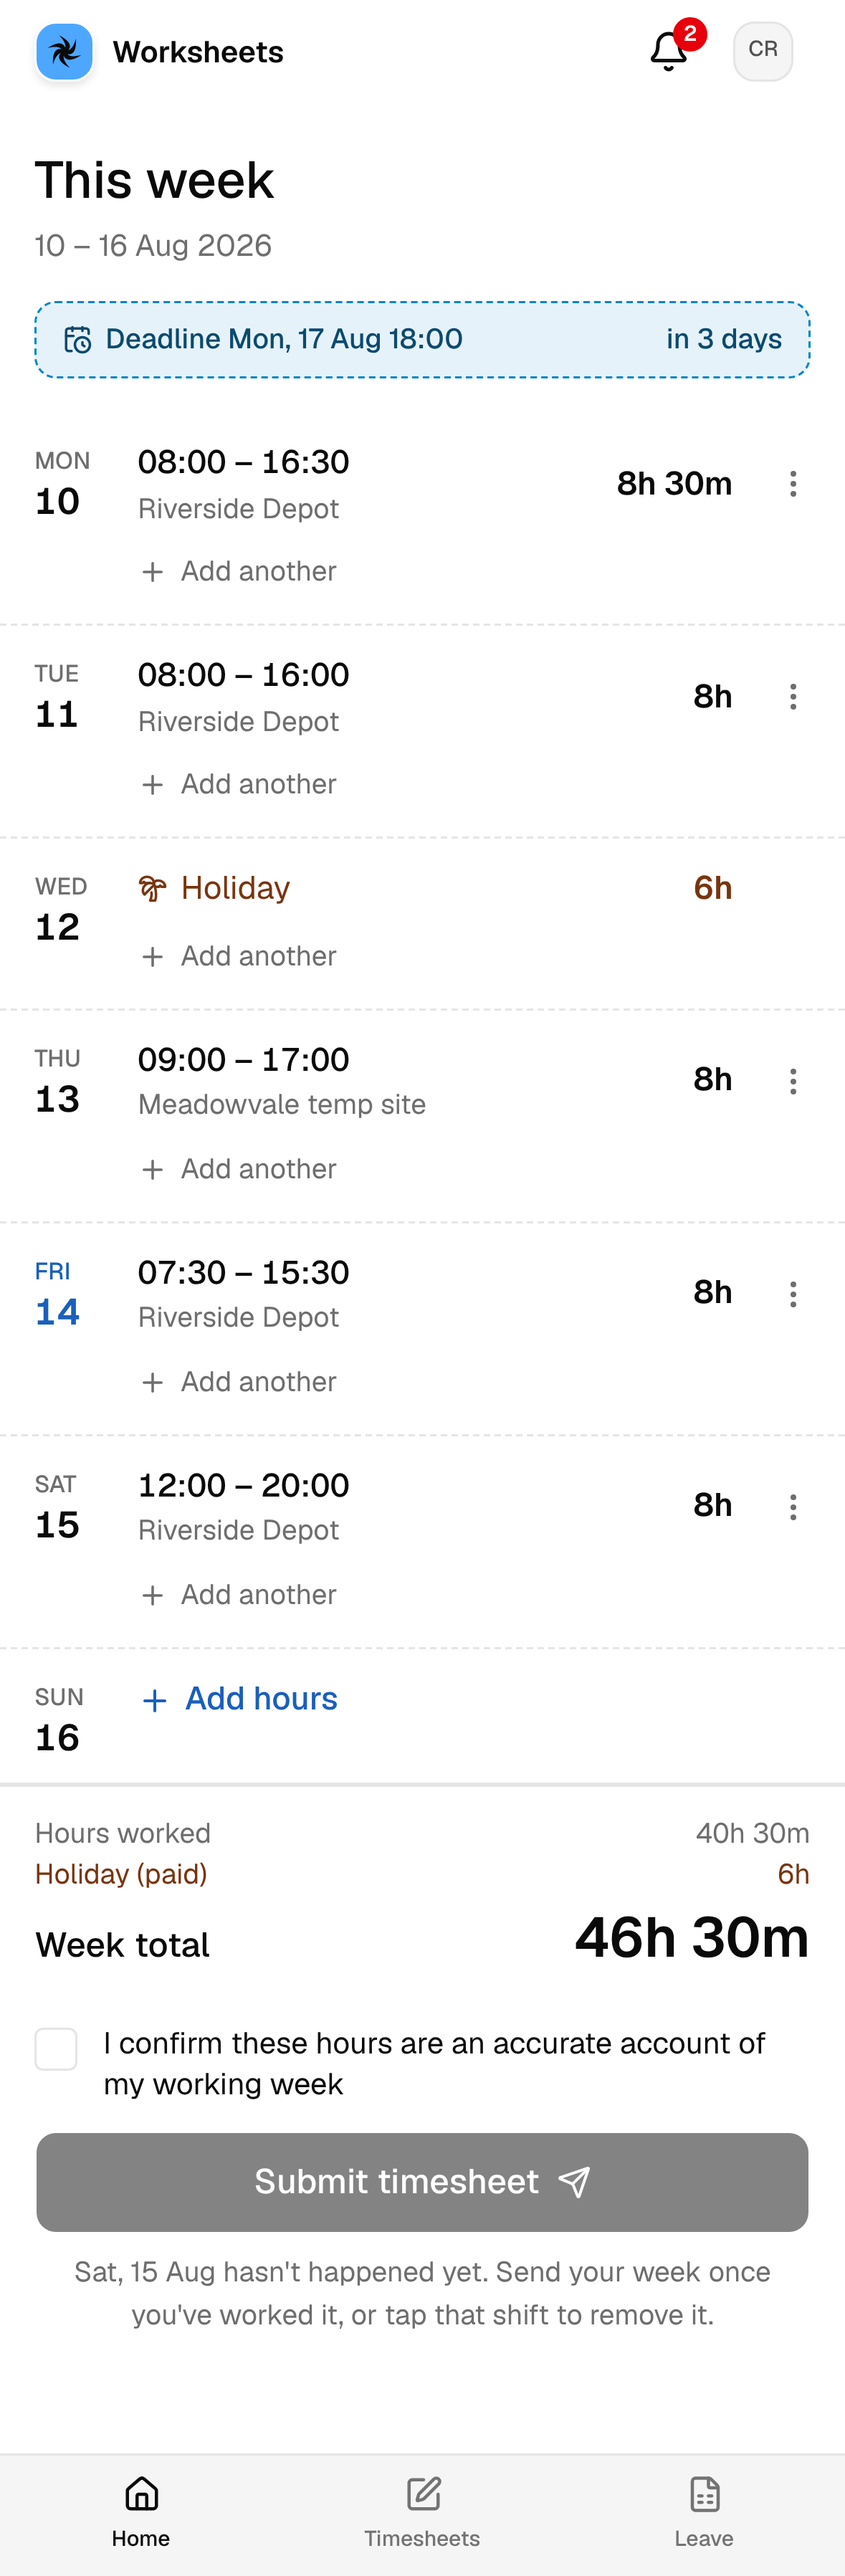
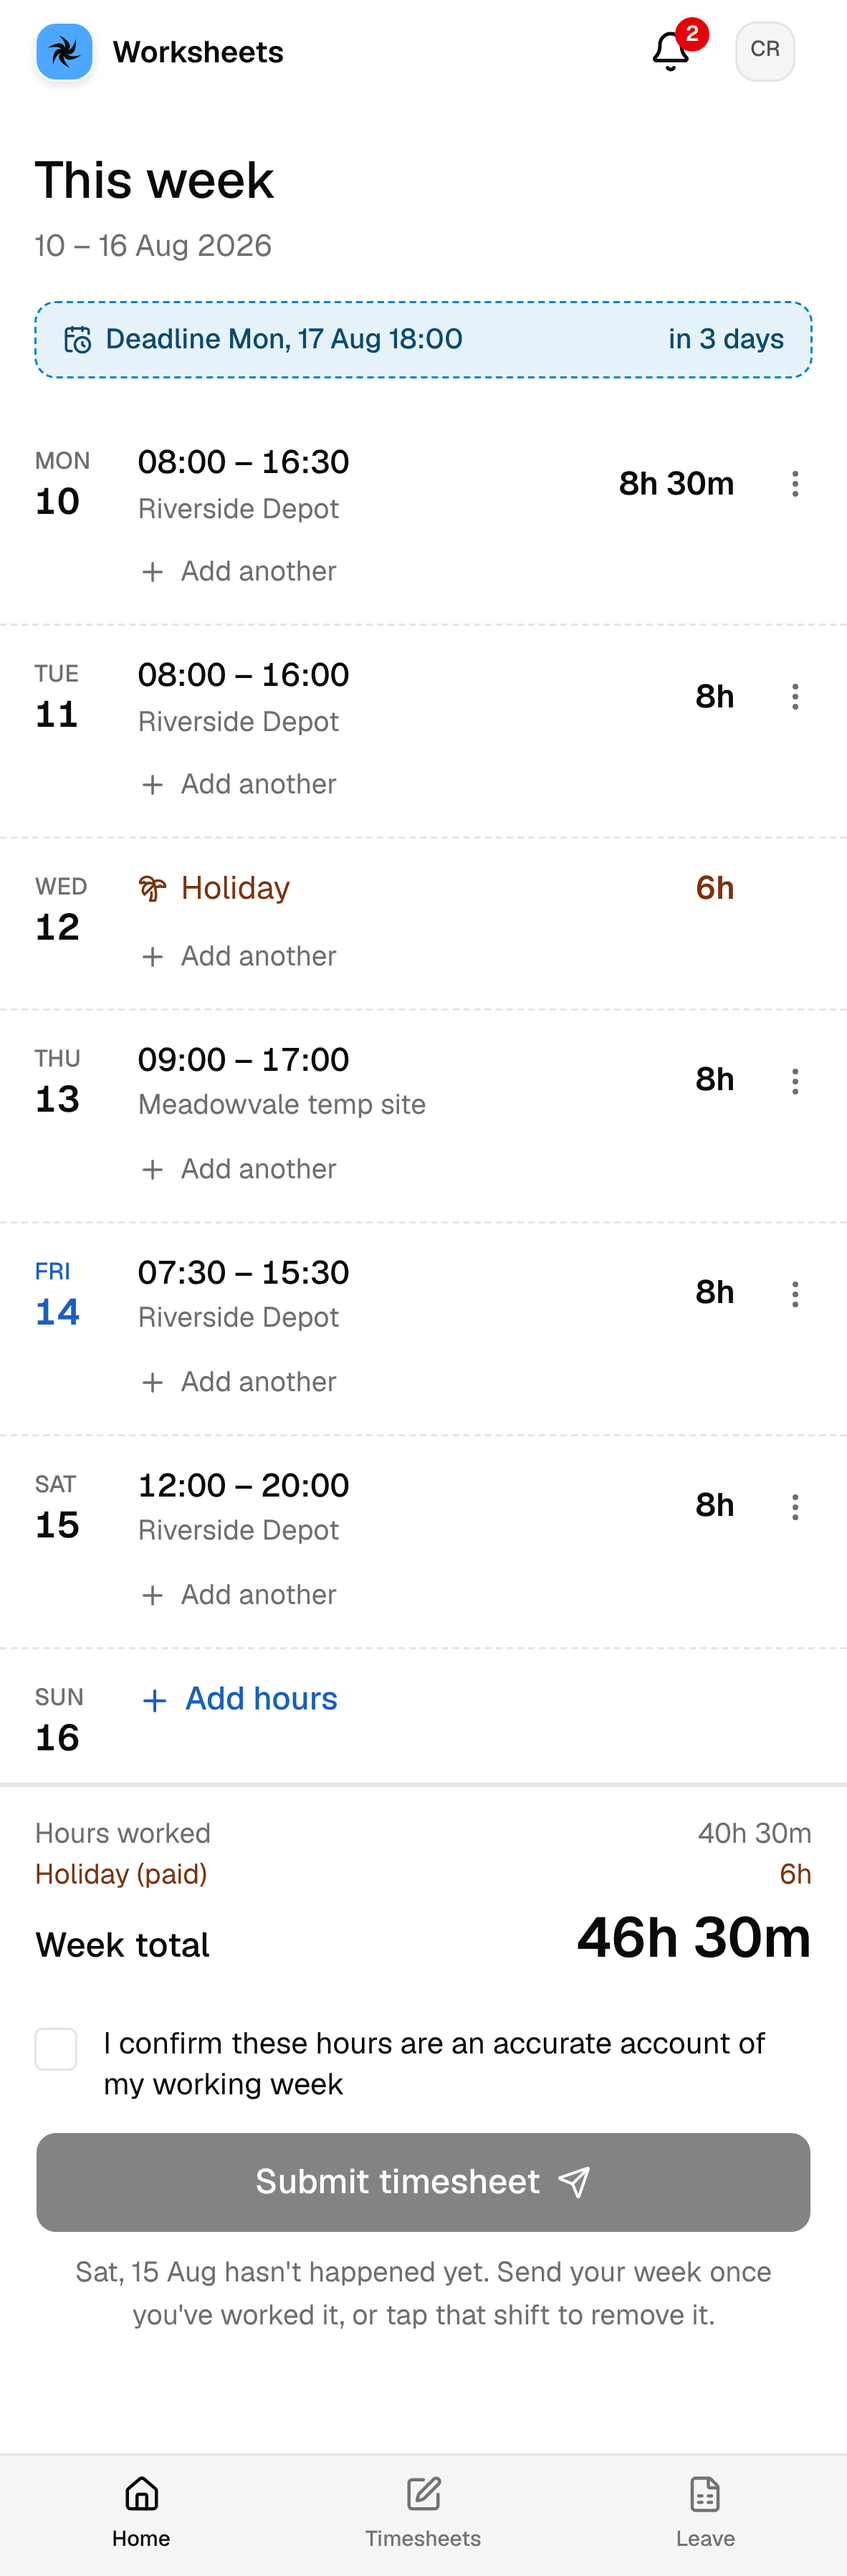
Worksheets: phone screens recaptured at 394x872
Every employee app screen is now a full phone screen at 3x (1182x2616),
in the case study and in the screenshots folder. The week decision shows
the top of the week and the bottom, where the total and submit sit.

Claude-Session: https://claude.ai/code/session_013XVzYyApti7YHTPsrdaB8e

diff --git a/lib/media-dims.ts b/lib/media-dims.ts
@@ -32,12 +32,13 @@ export const MEDIA_DIMS: Record<string, [width: number, height: number]> = {
   "/media/work-3.webp": [722, 722],
   "/media/work-4.webp": [722, 658],
   "/media/worksheets-dashboard.webp": [1440, 1024],
-  "/media/ws-app-leave.webp": [1179, 1977],
-  "/media/ws-app-log.webp": [1179, 1977],
-  "/media/ws-app-reuse.webp": [1179, 1977],
-  "/media/ws-app-saved.webp": [1179, 1977],
-  "/media/ws-app-signin.webp": [1179, 1977],
-  "/media/ws-app-week.webp": [1179, 3594],
+  "/media/ws-app-leave.webp": [1182, 2616],
+  "/media/ws-app-log.webp": [1182, 2616],
+  "/media/ws-app-reuse.webp": [1182, 2616],
+  "/media/ws-app-saved.webp": [1182, 2616],
+  "/media/ws-app-signin.webp": [1182, 2616],
+  "/media/ws-app-week-total.webp": [1182, 2616],
+  "/media/ws-app-week.webp": [1182, 2616],
   "/media/ws-dash-approvals.webp": [2880, 1800],
   "/media/ws-dash-export.webp": [2880, 2288],
   "/media/ws-dash-leave.webp": [2880, 2006],

diff --git a/app/work/worksheets/page.tsx b/app/work/worksheets/page.tsx
@@ -387,7 +387,8 @@ export default function WorksheetsCaseStudy() {
               side="left"
               onZoom={setZoom}
               phones={[
-                    { src: "/media/ws-app-week.webp", alt: "This week: every day listed, the total, the confirmation and the submit button." },
+                    { src: "/media/ws-app-week.webp", alt: "This week: every day listed, including the empty ones." },
+                    { src: "/media/ws-app-week-total.webp", alt: "The bottom of the week: the total, the confirmation and the submit button." },
                   ]}
             >
               <p>

diff --git a/components/site/PvImageTemplate.tsx b/components/site/PvImageTemplate.tsx
@@ -13,6 +13,7 @@ const READY = new Set([
   "/media/fs2-wishlist.webp",
   "/media/ws-app-signin.webp",
   "/media/ws-app-week.webp",
+  "/media/ws-app-week-total.webp",
   "/media/ws-app-reuse.webp",
   "/media/ws-app-saved.webp",
   "/media/ws-app-log.webp",
